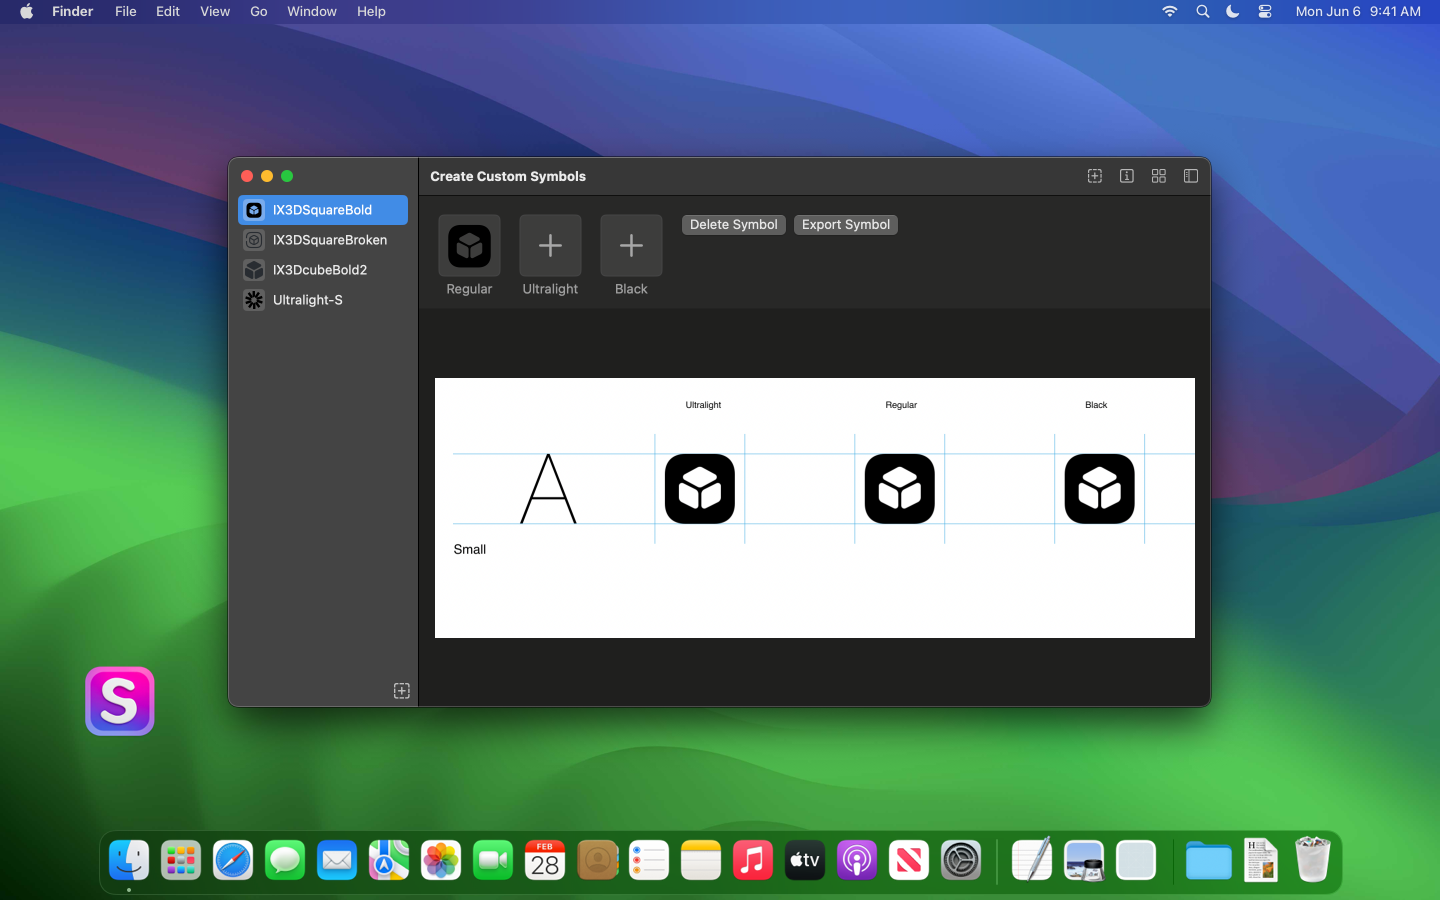
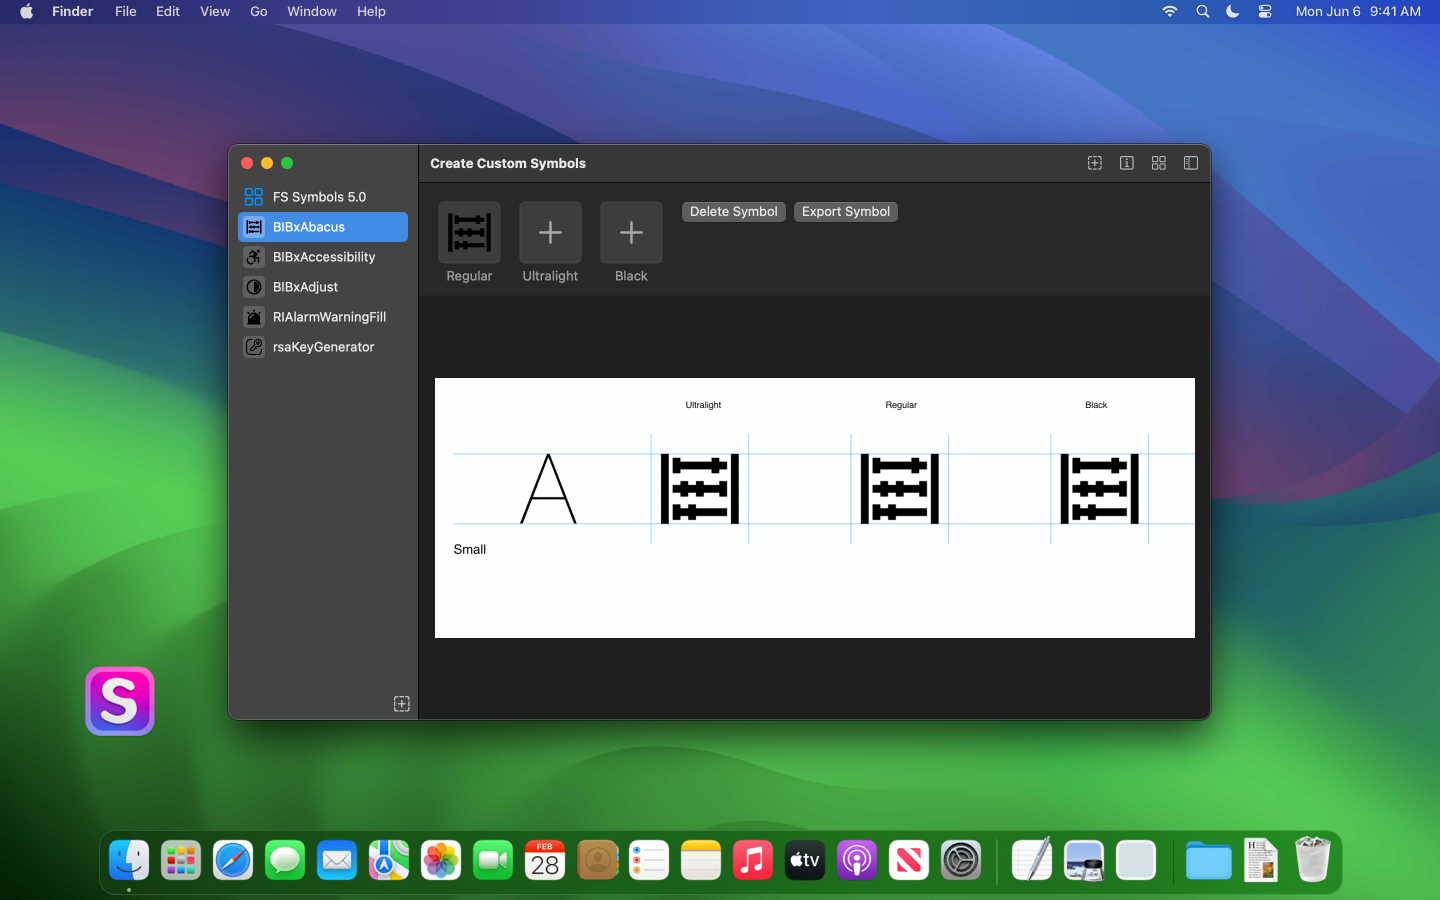
feat: update create-custom-symbols screenshots.

diff --git a/src/app/create-custom-symbols/index.tsx b/src/app/create-custom-symbols/index.tsx
@@ -5,6 +5,7 @@ import { Header } from '../comps/Header';
 import logo from './logo.png'
 import screenshots1 from './screenshots-1.png'
 import screenshots2 from './screenshots-2.png'
+import screenshots3 from './screenshots-3.png'
 
 export const Component: FC<PropsWithChildren> = () => {
   const { t } = useTranslation('create-custom-symbols');
@@ -22,6 +23,7 @@ export const Component: FC<PropsWithChildren> = () => {
       <img src={screenshots1} />
       <p>{t('info1')}</p>
       <img src={screenshots2} />
+      <img src={screenshots3} />
     </Header>
   );
 }
